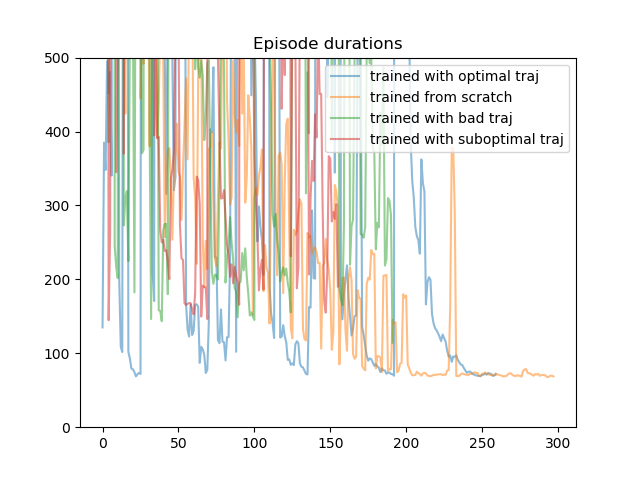
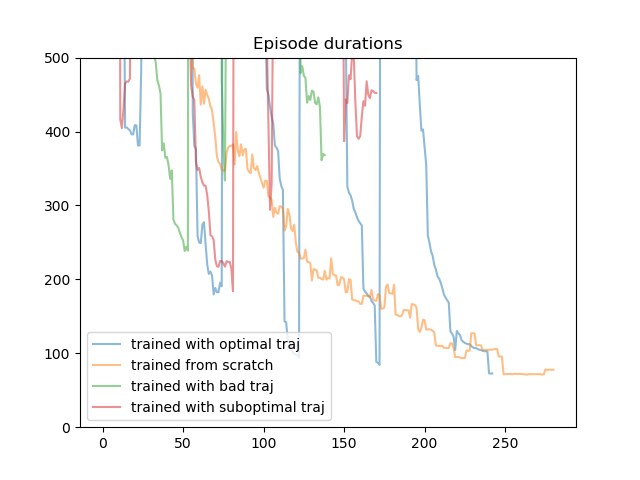
Added plots to compare the 4 models for maze (scratch, suboptimal, optimal, bad)

diff --git a/src/maze_test.py b/src/maze_test.py
@@ -44,6 +44,19 @@ final_eps = 0.05
 def get_epsilon(it):
     return 1 - it*((1 - final_eps)/eps_iterations) if it < eps_iterations else final_eps
 
+def generate_plots():
+    plt.figure()
+    plt.ylim((0, 500))
+    plt.plot(smooth(episode_durations, smooth_factor), label="trained with optimal traj", alpha=0.5)
+    plt.plot(smooth(episode_durations_scratch, smooth_factor), label="trained from scratch", alpha=0.5)
+    plt.plot(smooth(episode_durations_bad, smooth_factor), label="trained with bad traj", alpha=0.5)
+    plt.plot(smooth(episode_durations_suboptimal, smooth_factor), label="trained with suboptimal traj", alpha=0.5)
+    plt.legend()
+    plt.title('Episode durations')
+    # plt.show()
+    plt.savefig("./plot.png")
+    return
+
 
 random.seed(seed)
 # torch.manual_seed(seed)
@@ -118,24 +131,21 @@ Q_scratch, greedy_policy_scratch, episode_durations_scratch, returns_trends_scra
                                                                                 )
 
 
-print("Trained in", len(episode_durations), " episodes")
 
-print("Repeating the last training episode")
+# print("Repeating the last training episode")
 # play_trajectory(utils.create_env(env_name), trajectories[-1][0], seed=trajectories[-1][1], render=True)
 
-print("Testing the final greedy policy:")
+print("\nTesting the final greedy policy:")
+print("Optimal converged in ", len(episode_durations), "episodes")
 play_episodes(utils.create_env(env_name), greedy_policy, n=1, seed=trajectories[-1][1], render=False, maze=True, plotting=False)
+print("Suboptimal converged in ", len(episode_durations_suboptimal), "episodes")
+play_episodes(utils.create_env(env_name), greedy_policy_suboptimal, n=1, seed=trajectories[-1][1], render=False, maze=True, plotting=False)
+print("Bad converged in ", len(episode_durations_bad), "episodes")
+play_episodes(utils.create_env(env_name), greedy_policy_bad, n=1, seed=trajectories[-1][1], render=False, maze=True, plotting=False)
+print("Scratch converged in ", len(episode_durations_scratch), "episodes")
+play_episodes(utils.create_env(env_name), greedy_policy_scratch, n=1, seed=trajectories[-1][1], render=False, maze=True, plotting=False)
 
-smooth_factor = 3
-plt.figure()
-plt.ylim((0, 500))
-plt.plot(smooth(episode_durations, smooth_factor), label="trained with optimal traj", alpha=0.5)
-plt.plot(smooth(episode_durations_scratch, smooth_factor), label="trained from scratch", alpha=0.5)
-plt.plot(smooth(episode_durations_bad, smooth_factor), label="trained with bad traj", alpha=0.5)
-plt.plot(smooth(episode_durations_suboptimal, smooth_factor), label="trained with suboptimal traj", alpha=0.5)
-plt.legend()
-plt.title('Episode durations')
-# plt.show()
-plt.savefig("./plot.png")
+smooth_factor = 20 # TODO   notice the smoothing factor in the plots!
+generate_plots()
 
 # play_episodes(utils.create_env(env_name), greedy_policy, n=1, seed=trajectories[-1][1], render=True, maze=True, plotting=False)

diff --git a/src/backward_train_maze.py b/src/backward_train_maze.py
@@ -174,6 +174,8 @@ def backward_train_maze(trajectory, seed, env_name, stop_coeff, smoothing_num,
             dr = episode_return - real_returns[starting_state_idx]
             victory = dr >= -0.1 * abs(real_returns[starting_state_idx])
             # victory = int(episode_return > real_returns[starting_state_idx])
+            # TODO look at the plots... suboptimal and bad do better than the baseline easily, so they go to the
+            # TODO next split even if the learned policy is still very bad!
             victories.append(victory)
             
             # TODO - multiply it by gamma**len(trajectory till the starting point)
@@ -224,7 +226,7 @@ def train_maze(seed, env_name, max_num_episodes, discount_factor,
     assert seed == int(seed)
     seed = int(seed)
     random.seed(seed)
-    env.seed(seed)
+    # env.seed(seed)  # results in: WARN: Could not seed environment <MazeEnv instance>
     
     if Q is None:
         Q = defaultdict(lambda: np.zeros(n_actions))

diff --git a/src/replay.py b/src/replay.py
@@ -32,7 +32,7 @@ def play_episodes(env, model, n=20, seed=42, render=True, maze=False, plotting=T
         done = False
         steps = 0
 
-        while not done:
+        while not done and steps < 1000:
             steps += 1
 
             with torch.no_grad():
